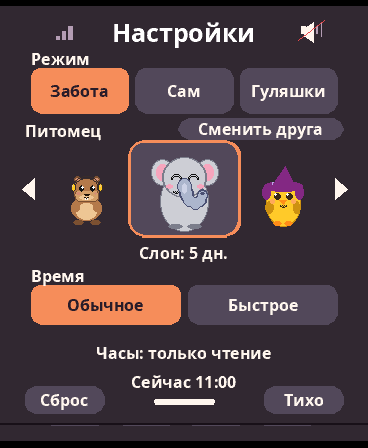
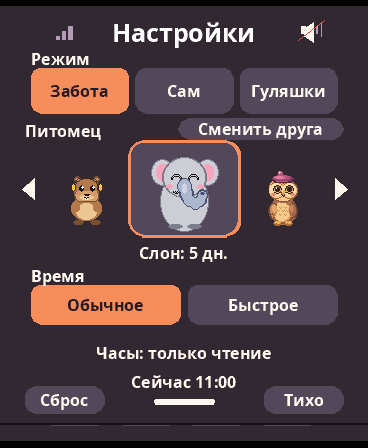
Redraw the duck as Sovenka with a small beret and preserve her save

Changed region(s): [[0.6875, 0.375, 0.837, 0.5312]]

diff --git a/desenho.py b/desenho.py
@@ -551,45 +551,94 @@ def capi(cx, pe, olhos, boca, doente, s, ol):
 
 
 def pato(cx, pe, olhos, boca, doente, s, ol):
-    E, P, R, A = _rel(cx, pe, s, ol, lambda c: PATO_ESC if c == PATO else None)
-    E(0, -44, 35, 46, PATO, 1)
-    E(-30, -38, 8, 15, PATO_ESC); E(30, -38, 8, 15, PATO_ESC)
-    E(-12, -2, 10, 4, LARANJA, 1); E(12, -2, 10, 4, LARANJA, 1)
-    E(-36, -70, 9, 16, ROXO, 1); E(36, -70, 9, 16, ROXO, 1)
-    bc = ENJOADA if doente else LARANJA_CL
-    E(-23, -50, 5, 3, bc); E(23, -50, 5, 3, bc)
-    for ox in (-13, 13):
-        oy = -62
-        if olhos == 'fechados':
-            R(ox - 7, oy, 14, 2, OLHO_PATO)
+    """Совёнка, using the original stable pato save and peer ID."""
+    E, P, R, A = _rel(cx, pe, s, ol, None)
+    ink, rim = (55, 36, 45), (113, 70, 58)
+    shade, brown, caramel = (138, 84, 65), (174, 110, 73), (200, 140, 92)
+    honey, buff, cream = (226, 165, 108), (246, 202, 141), (255, 223, 171)
+    plum_dark, plum, berry = (91, 40, 71), (143, 66, 105), (182, 88, 127)
+    berry_light, pom_light = (219, 124, 153), (244, 167, 180)
+    amber, gold = (174, 106, 49), (236, 177, 82)
+
+    # Oval fluffy body and layered wings with clearly separated feather tips.
+    E(0, -31, 28, 31, brown, 1)
+    E(0, -30, 26, 28.5, shade)
+    E(-1.8, -34, 24, 25.3, brown)
+    E(-2, -27, 19.5, 21.5, honey)
+    E(-3.6, -28.3, 17.0, 19.1, buff)
+    for y, xs in ((-38,(-6,6)),(-30,(-10,0,10)),(-21,(-6,6))):
+        for x in xs:
+            A(x,y,2.6,1.9,caramel,2,2)
+    for side in (-1, 1):
+        x = side * 22
+        P(x,-28,(-7*side,-15,1*side,-19,8*side,-12,10*side,-2,8*side,9,
+                  4*side,14,1*side,11,-1*side,13,-4*side,7,-7*side,2), rim)
+        E(x - 1.4 * side,-31,7.2,13.5,caramel if side<0 else brown)
+        E(x - 3.2 * side,-34,3.6,8.6,honey if side<0 else caramel)
+        for dx, dy in ((4,3),(0,5)):
+            A(x + side*dx,-26+dy,2.3,3.0,shade,2,2)
+        E(12*side,-3.2,9.0,5.0,amber,1)
+        E(12*side-.6,-4.1,7.2,3.1,gold)
+        R(12*side-2.4,-3.0,1.15,2.0,amber)
+        R(12*side+1.55,-3.0,1.15,2.0,amber)
+
+    # Two light facial discs make the front silhouette unmistakably owlish.
+    E(0,-74,32,26.5,brown,1)
+    E(0,-73,30.5,24.7,shade)
+    E(-1.2,-76,29.5,23.3,caramel)
+    E(-4.0,-82,25.5,16.5,honey)
+    E(0,-66.8,24.25,15.4,buff)
+    for ox in (-13.4,13.4):
+        E(ox,-74,16.3,17.25,amber)
+        E(ox-.35,-75,15.1,16.3,buff)
+        E(ox-.6,-75.7,13.8,14.4,cream)
+        bc = ENJOADA if doente else (224,136,115)
+        E(ox*1.49,-65.2,5.1,2.7,bc)
+    eyes = ((-13.0,-76.4),(13.0,-76.4))
+    for x,y in eyes:
+        if olhos == 'fechados' or boca == 'dormindo':
+            A(x,y+.85,7.25,4.0,ink,2,2)
         elif olhos == 'feliz':
-            A(ox, oy + 4, 7, 6, OLHO_PATO, 1)
-        elif olhos == 'susto':
-            E(ox, oy, 10, 10, BRANCO, 1); E(ox, oy, 4, 4, OLHO_PATO)
-        elif olhos == 'sono':
-            E(ox, oy, 8, 8, OLHO_PATO); R(ox - 9, oy - 9, 18, 9, PATO)
+            A(x,y+2.9,7.35,5.75,ink,1,3)
         else:
-            E(ox, oy, 8, 8, OLHO_PATO); E(ox - 3, oy - 3, 2, 2, BRANCO)
-    by = -50
-    if boca == 'aberta':
-        P(0, by, (-8, -3, 8, -3, 0, 11), BOCA); P(0, by, (-8, -3, 8, -3, 0, 3), LARANJA)
-    elif boca == 'meia':
-        P(0, by, (-8, -3, 8, -3, 0, 8), BOCA); P(0, by, (-8, -3, 8, -3, 0, 4), LARANJA)
-    elif boca == 'o':
-        P(0, by, (-8, -3, 8, -3, 0, 7), LARANJA); E(0, by + 9, 3, 3, BOCA)
+            startled = olhos == 'susto'
+            E(x,y,9.15,9.8 if startled else 8.75,ink)
+            E(x,y+.7,7.6,7.9 if startled else 7.25,amber)
+            E(x,y+1.65,6.35,5.65,gold)
+            E(x+.3,y-.35,3.8 if startled else 4.6,5.75,ink)
+            if olhos == 'sono':
+                R(x-9,y-9,18,8.45,buff)
+            else:
+                R(x-2.25,y-3.05,2.0,2.0,(255,229,182))
+                R(x+1.95,y+.5,1.05,1.05,(255,215,157))
+    # The short hook is a beak, not the broad duck bill.
+    P(0,-70,(-6,-2,-4,-5,4,-5,6,-2,3,4,0,6,-3,4),rim)
+    P(0,-70,(-4.55,-2,-2.7,-3.95,2.6,-3.95,4.6,-2,2,3.2,0,4.4,-2,3.2),gold)
+    R(-1.75,-73.1,3,1.2,cream)
+    if boca in ('aberta','o'):
+        E(0,-62.6,3.4,2.65,ink)
+        E(0,-61.7,1.65,1.15,(227,117,111))
     elif boca == 'triste':
-        P(0, by, (-8, -3, 8, -3, 0, 7), LARANJA); A(0, by + 14, 6, 4, OLHO_PATO, 1)
-    elif boca == 'dormindo':
-        P(0, by, (-6, -2, 6, -2, 0, 5), LARANJA)
-    else:
-        P(0, by, (-8, -3, 8, -3, 0, 7), LARANJA); A(0, by + 8, 7, 4, OLHO_PATO, 2)
-    E(0, -82, 42, 12, ROXO, 1); R(-24, -91, 48, 7, LILAS)
-    if ol:
-        P(0, -85, (-26, 1, 26, 1, 7, -44), ol(ROXO))
-    P(0, -85, (-24, 0, 24, 0, 6, -42), ROXO)
+        A(0,-59.4,3.7,2.9,ink,1,2)
+    elif boca == 'sorriso':
+        A(0,-64,3.9,2.4,ink,2,2)
+
+    # Small tilted beret. Scale around its brim, not around the feet.
+    HE, HP, HR, _ = _rel(cx - 0.7*s, pe - 24*s, 0.74*s, ol, None)
+    HP(0,-99,(-29,1,-27,-6,-20,-12,-11,-15,3,-16,16,-13,
+              26,-9,32,-3,32,3,26,7,10,8,-10,7,-23,7),plum_dark)
+    HE(-0.5,-101.5,29.0,10.0,plum)
+    HE(-4.7,-104.45,23.75,7.05,berry)
+    HE(-10.1,-106.7,15.0,3.3,berry_light)
+    HP(0,-95.2,(-25,-2,-15,0,3,1,25,-1,25,2,18,5,2,6,-15,5,-23,3),plum_dark)
+    HR(-17.5,-94.8,35.0,1.6,berry)
+    HE(-7.5,-117.0,7.85,7.4,plum_dark)
+    HE(-7.7,-117.9,6.45,6.15,berry)
+    HE(-9.3,-119.25,4.15,3.65,berry_light)
+    HE(-10.4,-120.15,1.75,1.65,pom_light)
     if doente:
-        termometro(cx + 30 * s, pe - 58 * s)
-    return pe - 62 * s, pe - 128 * s, 35 * s, ((cx - 13 * s, pe - 62 * s), (cx + 13 * s, pe - 62 * s))
+        termometro(cx+32*s, pe-56*s)
+    return pe-74*s, pe-117*s, 35*s, [(cx+ox*s, pe+oy*s) for ox,oy in eyes]
 
 
 def elefante(cx, pe, olhos, boca, doente, s, ol):
@@ -1796,7 +1845,7 @@ def menu(borda, modo, id, hora_modo, vel, relogio, som_ligado, pendente=None, co
     if not pendente and fase == 'ovo':
         ovo(120, o + 146, contorno=False, grama=TRAY, s=0.75)
     elif pendente or fase != 'estrela':
-        personagem(mostra, 120, o + 144, 'normal' if mostra in ('gato', 'ryska', 'fennec') else 'feliz', contorno=False,
+        personagem(mostra, 120, o + 144, 'normal' if mostra in ('gato', 'ryska', 'fennec', 'pato') else 'feliz', contorno=False,
                    s=0.4 if mostra in ('pato', 'calopsita') else 0.45, cru=True)
     poly(14, o + 119, (0, 0, 8, -7, 8, 7), CREME); poly(226, o + 119, (0, 0, -8, -7, -8, 7), CREME)
     if pendente:

diff --git a/tests/test_v1_owl.py b/tests/test_v1_owl.py
@@ -1,0 +1,61 @@
+"""The renamed owl retains the original pet ID, save and carousel position."""
+from pathlib import Path
+from tempfile import TemporaryDirectory
+from unittest import TestCase
+from unittest.mock import patch
+import zipfile
+
+from ports import amoled_v1, v1_full_game_emulate as game
+from ports.package_amoled_v1_app import package_app
+from zoo import pet_slots, registry
+import vida
+
+
+class OwlV1Test(TestCase):
+    def test_stable_slot_and_owl_specific_russian_lines(self):
+        self.assertEqual(registry.ELENCO[:4], ("capi", "elefante", "pato", "polvo"))
+        self.assertEqual(registry.NOMES["pato"], "Совёнка")
+        self.assertEqual(vida.NOMES["pato"], "Совёнка")
+        self.assertEqual(pet_slots.pet_path("pato"), "pet_saves/pato/capi.json")
+        phrases = vida.FRASES_CHAR["pato"]
+        self.assertIn("Ух-ух!", phrases["ocioso"])
+        self.assertIn("Люблю|свой берет!", phrases["ocioso"])
+        for texts in phrases.values():
+            for text in texts:
+                self.assertNotIn("кря", text.lower())
+                lines = text.split("|")
+                self.assertLessEqual(len(lines), 2)
+                self.assertTrue(all(1 <= len(line) <= 14 for line in lines))
+
+    def test_existing_owl_slot_and_localized_label_in_actual_v1_package(self):
+        selected = []
+        native_queue = amoled_v1.Tela._queue_text
+
+        def record(screen, text, *args, **kwargs):
+            selected.append(text)
+            return native_queue(screen, text, *args, **kwargs)
+
+        previous_pet, next_pet = game._touch(44, 121), game._touch(194, 121)
+        backward = game._OPEN + (previous_pet,) + game._CONFIRM + game._CLOSE
+        forward = game._OPEN + (next_pet,) + game._CONFIRM + game._CLOSE
+        fixtures = {"pato": 37, "elefante": 73}
+        with TemporaryDirectory(prefix="medve-owl-app-test-") as directory:
+            root = Path(directory)
+            package = root / "app.zip"
+            package_app(game.ROOT, package)
+            staged = root / "staged"
+            with zipfile.ZipFile(package) as handle:
+                handle.extractall(staged)
+            with patch.object(amoled_v1.Tela, "_queue_text", record):
+                _, result = game.emulate(game._idle(2) + backward + forward,
+                                         initial_pet="pato", fixtures=fixtures,
+                                         screen_mode=amoled_v1.SCALE_LARGE,
+                                         app_path=staged / "v1_game_app.py")
+        self.assertTrue(result["packaged_entry"])
+        self.assertEqual(result["runtime_profile"], "amoled_1_8_v1")
+        self.assertTrue(result["offline_forced"])
+        self.assertEqual([step["pet"] for step in result["pet_trace"]],
+                         ["pato", "elefante", "pato"])
+        self.assertEqual(fixtures, result["saved_food"])
+        self.assertTrue(any(text.startswith("Совёнка") for text in selected))
+        self.assertFalse(any("Утка" in text for text in selected))

diff --git a/vida.py b/vida.py
@@ -330,8 +330,8 @@ FRASES_CHAR = {
              'carinho': ('Как приятно!', 'Капи рад!')},
     'elefante': {'ocioso': ('Принёс арбуз!', 'Тру-ру!', 'Весёлый|хобот!', 'Слоновьи|обнимашки!', 'Помню всё!'),
                  'carinho': ('Обнимашки!', 'Тру-ру!')},
-    'pato': {'ocioso': ('Видел комету!', 'Абракадабра!', 'Волшебная|шляпа!', 'Кря-кря!', 'Нашёл|камушек!'),
-             'carinho': ('Кря!', 'Волшебство!')},
+    'pato': {'ocioso': ('Вижу комету!', 'Ух-ух!', 'Ночной дозор!', 'Привет, луна!', 'Люблю|свой берет!'),
+             'carinho': ('Ух, я рада!', 'Ещё обнимашки!')},
     'polvo': {'ocioso': ('У меня|8 объятий!', 'Буль-буль!', 'Ныряю!', 'Люблю озеро!', 'Чернила?|Не сегодня!'),
               'carinho': ('Обнимаю!', 'Буль!')},
     'calopsita': {'ocioso': ('Фью-фью!', 'Доброе утро!', 'Спой|со мной!', 'Как мой|хохолок?', 'Чик-чирик!'),

diff --git a/ports/render_zoo_gallery.py b/ports/render_zoo_gallery.py
@@ -26,7 +26,7 @@ LEFT = _touch(40, 160)
 SCENES = {
     "capi": ("Яйцо", "pet", 50, {"idade_min": 0}, DAY, FEED, 4, "Я в яйце!|Согрей меня!"),
     "elefante": ("Купание", "pet", 52, {"cocos": 1}, DAY, BATH, 8, "Как приятно!"),
-    "pato": ("Ночь и сон", "pet", 68, {"dormindo": True}, NIGHT, FEED, 4, "Тс-с... хр-р"),
+    "pato": ("Вечер в берете", "pet", 68, {}, DAY + 8 * 3600, None, 4, None),
     "polvo": ("Утренняя прогулка", "explore", 50, {}, DAY - 5 * 3600, RIGHT, 10, None),
     "calopsita": ("Осмотр", "pet", 62, {}, DAY, MEDICINE, 4, "Я не болею!"),
     "cachorro": ("Кормление после обеда", "pet", 100, {}, DAY, FEED, 4, "Я уже сыт!"),

diff --git a/zoo/registry.py b/zoo/registry.py
@@ -21,7 +21,7 @@ import os
 BUILTINS = (
     ("capi", "Капи", 77),
     ("elefante", "Слон", 75),
-    ("pato", "Утка", 95),
+    ("pato", "Совёнка", 95),
     ("polvo", "Осьминог", 71),
     ("calopsita", "Попугай", 84),
     ("cachorro", "Карамелька", 75),

diff --git a/docs/SCREENSHOTS_RU.md b/docs/SCREENSHOTS_RU.md
@@ -1,6 +1,6 @@
 # Скриншоты MedveGoshi
 
-[← На главную](../README.md) · [Карамелька в движении](#карамелька-в-движении) · [Рыська крупным планом](#рыська-крупным-планом) · [Фенек крупным планом](#фенек-крупным-планом) · [Бйорни крупным планом](#бйорни-крупным-планом)
+[← На главную](../README.md) · [Совёнка крупным планом](#совёнка-крупным-планом) · [Карамелька в движении](#карамелька-в-движении) · [Рыська крупным планом](#рыська-крупным-планом) · [Фенек крупным планом](#фенек-крупным-планом) · [Бйорни крупным планом](#бйорни-крупным-планом)
 
 Все кадры сняты в эмуляторе **AMOLED V1, 368×448** из русской сборки [PR #2](https://github.com/Medvedolog/medvegoshi/pull/2). Реплики, часы и метки полей набраны пропорциональным Noto Sans Bold в родном разрешении, как и меню. В крупном режиме сцена рисуется прямо в 368×435 внутри панели, без растягивания кадра 240×284. Карамелька получила новый облик щенка: длинные ушки, светлая мордочка, карамельные тени и мелкие блики на AMOLED. Слева игровой момент, справа тот же питомец в меню «Настройки». Подписи поясняют сцену; реплики в кавычках взяты с экрана. Нажми на кадр, чтобы увеличить.
 
@@ -8,7 +8,7 @@
 |---|:---:|:---:|
 | **1. Капи**<br>Яйцо<br>«Я в яйце!» · «Согрей меня!» | <a href="img/medvegoshi-ru/gallery/capi-play.png"><img src="img/medvegoshi-ru/gallery/capi-play.png" width="174" alt="Капи — Яйцо"></a> | <a href="img/medvegoshi-ru/gallery/capi-settings.png"><img src="img/medvegoshi-ru/gallery/capi-settings.png" width="174" alt="Капи в меню Настройки"></a> |
 | **2. Слон**<br>Купание<br>«Как приятно!» | <a href="img/medvegoshi-ru/gallery/elefante-play.png"><img src="img/medvegoshi-ru/gallery/elefante-play.png" width="174" alt="Слон — Купание"></a> | <a href="img/medvegoshi-ru/gallery/elefante-settings.png"><img src="img/medvegoshi-ru/gallery/elefante-settings.png" width="174" alt="Слон в меню Настройки"></a> |
-| **3. Утка**<br>Ночь и сон<br>«Пойду спать...» | <a href="img/medvegoshi-ru/gallery/pato-play.png"><img src="img/medvegoshi-ru/gallery/pato-play.png" width="174" alt="Утка — Ночь и сон"></a> | <a href="img/medvegoshi-ru/gallery/pato-settings.png"><img src="img/medvegoshi-ru/gallery/pato-settings.png" width="174" alt="Утка в меню Настройки"></a> |
+| **3. Совёнка**<br>Вечер в берете | <a href="img/medvegoshi-ru/gallery/pato-play.png"><img src="img/medvegoshi-ru/gallery/pato-play.png" width="174" alt="Совёнка в берете на закате"></a> | <a href="img/medvegoshi-ru/gallery/pato-settings.png"><img src="img/medvegoshi-ru/gallery/pato-settings.png" width="174" alt="Совёнка в меню Настройки"></a> |
 | **4. Осьминог**<br>Утренняя прогулка<br>«Поле 1» | <a href="img/medvegoshi-ru/gallery/polvo-play.png"><img src="img/medvegoshi-ru/gallery/polvo-play.png" width="174" alt="Осьминог — Утренняя прогулка"></a> | <a href="img/medvegoshi-ru/gallery/polvo-settings.png"><img src="img/medvegoshi-ru/gallery/polvo-settings.png" width="174" alt="Осьминог в меню Настройки"></a> |
 | **5. Попугай**<br>Осмотр<br>«Я не болею!» | <a href="img/medvegoshi-ru/gallery/calopsita-play.png"><img src="img/medvegoshi-ru/gallery/calopsita-play.png" width="174" alt="Попугай — Осмотр"></a> | <a href="img/medvegoshi-ru/gallery/calopsita-settings.png"><img src="img/medvegoshi-ru/gallery/calopsita-settings.png" width="174" alt="Попугай в меню Настройки"></a> |
 | **6. Карамелька**<br>Кормление после обеда<br>«Я уже сыт!» | <a href="img/medvegoshi-ru/gallery/cachorro-play.png"><img src="img/medvegoshi-ru/gallery/cachorro-play.png" width="174" alt="Карамелька — Кормление после обеда"></a> | <a href="img/medvegoshi-ru/gallery/cachorro-settings.png"><img src="img/medvegoshi-ru/gallery/cachorro-settings.png" width="174" alt="Карамелька в меню Настройки"></a> |
@@ -20,6 +20,13 @@
 | **12. Бйорни**<br>Вечерние гуляшки<br>«Поле 1» | <a href="img/medvegoshi-ru/gallery/bjorni-play.png"><img src="img/medvegoshi-ru/gallery/bjorni-play.png" width="174" alt="Бйорни — Вечерние гуляшки"></a> | <a href="img/medvegoshi-ru/gallery/bjorni-settings.png"><img src="img/medvegoshi-ru/gallery/bjorni-settings.png" width="174" alt="Бйорни в меню Настройки"></a> |
 | **13. Рыська**<br>Дневной уход | <a href="img/medvegoshi-ru/gallery/ryska-play.png"><img src="img/medvegoshi-ru/gallery/ryska-play.png" width="174" alt="Рыська в игре"></a> | <a href="img/medvegoshi-ru/gallery/ryska-settings.png"><img src="img/medvegoshi-ru/gallery/ryska-settings.png" width="174" alt="Рыська в меню Настройки"></a> |
 | **14. Фенек**<br>Знакомство | <a href="img/medvegoshi-ru/gallery/fennec-play.png"><img src="img/medvegoshi-ru/gallery/fennec-play.png" width="174" alt="Фенек в игре"></a> | <a href="img/medvegoshi-ru/gallery/fennec-settings.png"><img src="img/medvegoshi-ru/gallery/fennec-settings.png" width="174" alt="Фенек в меню Настройки"></a> |
+
+## Совёнка крупным планом
+
+Совёнка сменила Утку на третьем месте в меню. У неё маленький клюв, круглые совиные глаза и сливовый берет с помпоном. Прогресс из прежнего слота сохраняется.
+
+[![Совёнка знакомится, радуется и дремлет](img/medvegoshi-ru/sovenka-preview.png)](img/medvegoshi-ru/sovenka-preview.png)
+
 
 ## Рыська крупным планом
 

diff --git a/README.md b/README.md
@@ -40,7 +40,7 @@
 
 ### 14 питомцев
 
-Девять из Capigoshi: **Капи, Слон, Утка, Осьминог, Попугай, Карамелька, Кот, Пришелец и Лягушонок**. Карамелька остаётся щенком: висячие уши, светлая мордочка и карамельные тени. У неё теперь отдельные движения хвоста, ушей и лап; прежнее сохранение остаётся совместимым. В MedveGoshi к ним добавились **Пип, Жирафик, Бйорни, Рыська и Фенек**. У каждого своё сохранение: можно сменить питомца, а потом вернуться к прежнему прогрессу. Новые персонажи подключаются через [модульный каталог Zoo](https://github.com/Medvedolog/medvegoshi/tree/feature/russian-game-ui/zoo).
+Девять знакомых слотов из Capigoshi: **Капи, Слон, Совёнка, Осьминог, Попугай, Карамелька, Кот, Пришелец и Лягушонок**. В русской версии бывшая Утка стала Совёнкой в берете с помпоном; её старый прогресс сохраняется. Карамелька остаётся щенком: висячие уши, светлая мордочка и карамельные тени. У неё теперь отдельные движения хвоста, ушей и лап; прежнее сохранение остаётся совместимым. В MedveGoshi к ним добавились **Пип, Жирафик, Бйорни, Рыська и Фенек**. У каждого своё сохранение: можно сменить питомца, а потом вернуться к прежнему прогрессу. Новые персонажи подключаются через [модульный каталог Zoo](https://github.com/Medvedolog/medvegoshi/tree/feature/russian-game-ui/zoo).
 
 **Рыська** — песочная рысь по детскому рисунку: зелёные глаза, кисточки, сердечки на щёчках и светлое сердце на груди. [Рыська крупным планом](docs/SCREENSHOTS_RU.md#рыська-крупным-планом).
 
